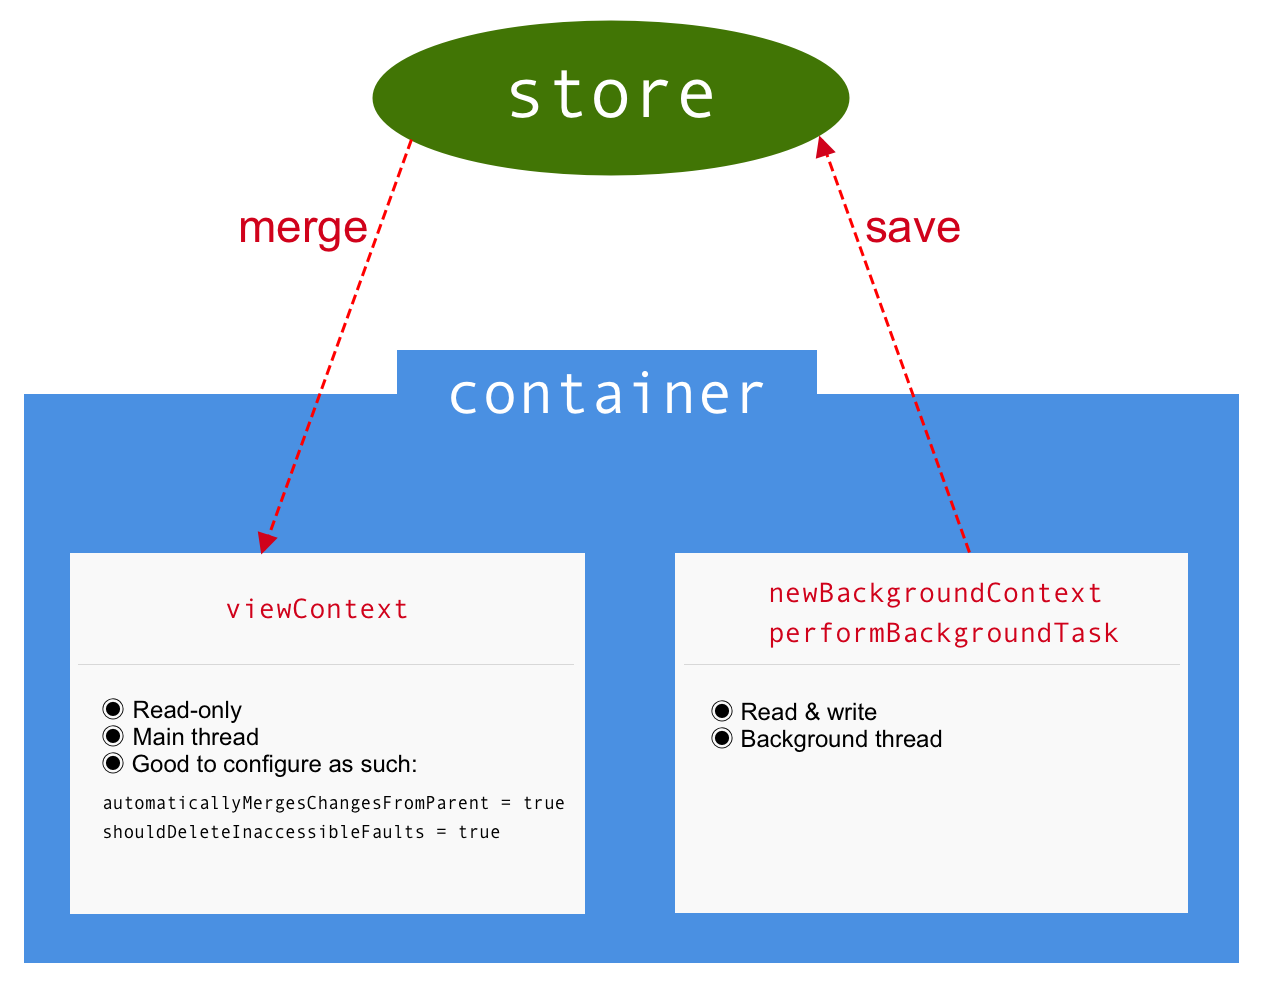
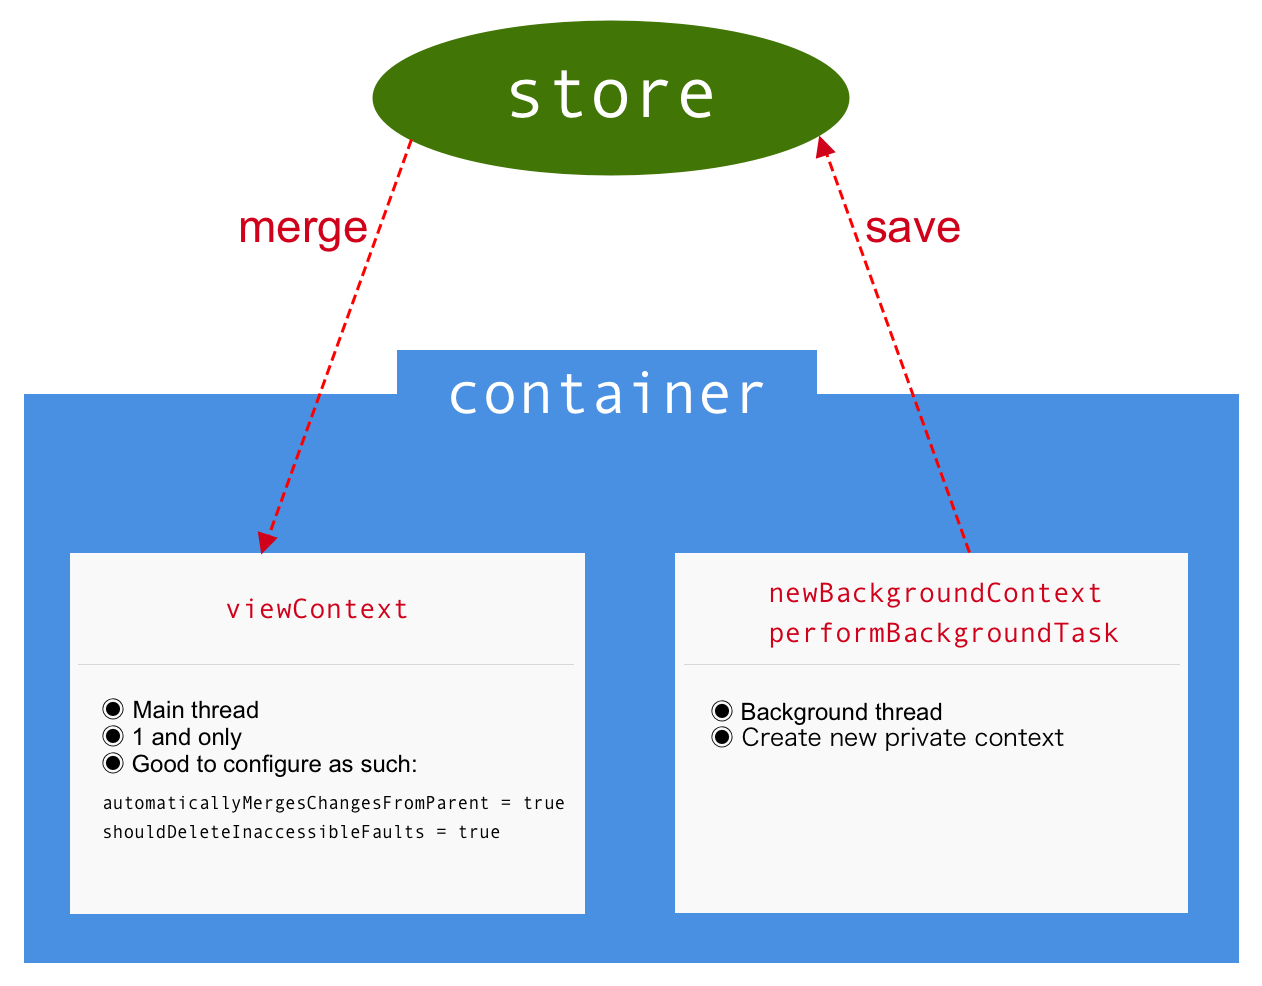
Site updated at: 2018-09-18 13:51:08 UTC

Changed region(s): [[0.5563, 0.6998, 0.8344, 0.7606], [0.0927, 0.6998, 0.2163, 0.7606]]

diff --git a/2018/09/01/modern-guide-to-core-data-2018/index.html b/2018/09/01/modern-guide-to-core-data-2018/index.html
@@ -214,8 +214,8 @@
 <p>The introduction of <code class="highlighter-rouge">NSPersistentContainer</code> simplified Core Data framework, by making developer choose between these two contexts:</p>
 
 <ol>
-  <li><code class="highlighter-rouge">viewContext</code> is in main thread, and is READ only; you cannot call <code class="highlighter-rouge">save</code>.</li>
-  <li><code class="highlighter-rouge">newBackgroundContext()</code> or <code class="highlighter-rouge">performBackgroundTask</code> is in background thread</li>
+  <li><code class="highlighter-rouge">viewContext</code> is on main thread</li>
+  <li><code class="highlighter-rouge">newBackgroundContext()</code> or <code class="highlighter-rouge">performBackgroundTask</code> is on background thread</li>
 </ol>
 
 <p><img src="/images/core-data-container.png" alt="Container and contexts" /></p>
@@ -234,6 +234,14 @@
 <p>What happens to existing fetched objects when a merge happens? They are not affected. You need to refresh the changes by executing the fetch again.</p>
 
 <p>How to know a context has changes? Observe posted notifications such as <a href="https://developer.apple.com/documentation/foundation/nsnotification/name/1506380-nsmanagedobjectcontextdidsave"><code class="highlighter-rouge">NSManagedObjectContextDidSave</code></a> and deal with the inserted, updated and deleted objects.</p>
+
+<h2 id="what-is-read-only-viewcontext">What is read-only <code class="highlighter-rouge">viewContext</code>?</h2>
+
+<p><code class="highlighter-rouge">viewContext</code> is a <a href="https://developer.apple.com/documentation/coredata/nspersistentcontainer/1640622-viewcontext">READ-only property</a>.</p>
+
+<p>You might be misguided to think it means that the context can only read, and <em>cannot write, insert or save</em>. Wrong! The read-only simply means the property cannot be set.</p>
+
+<p>You can run <code class="highlighter-rouge">viewContext.save</code>, which will save the context on main thread. If you do so, just ensure that you are not running a very long operation otherwise the main thread will be blocked.</p>
 
 <h2 id="pitfall-faults">Pitfall: Faults</h2>
 
